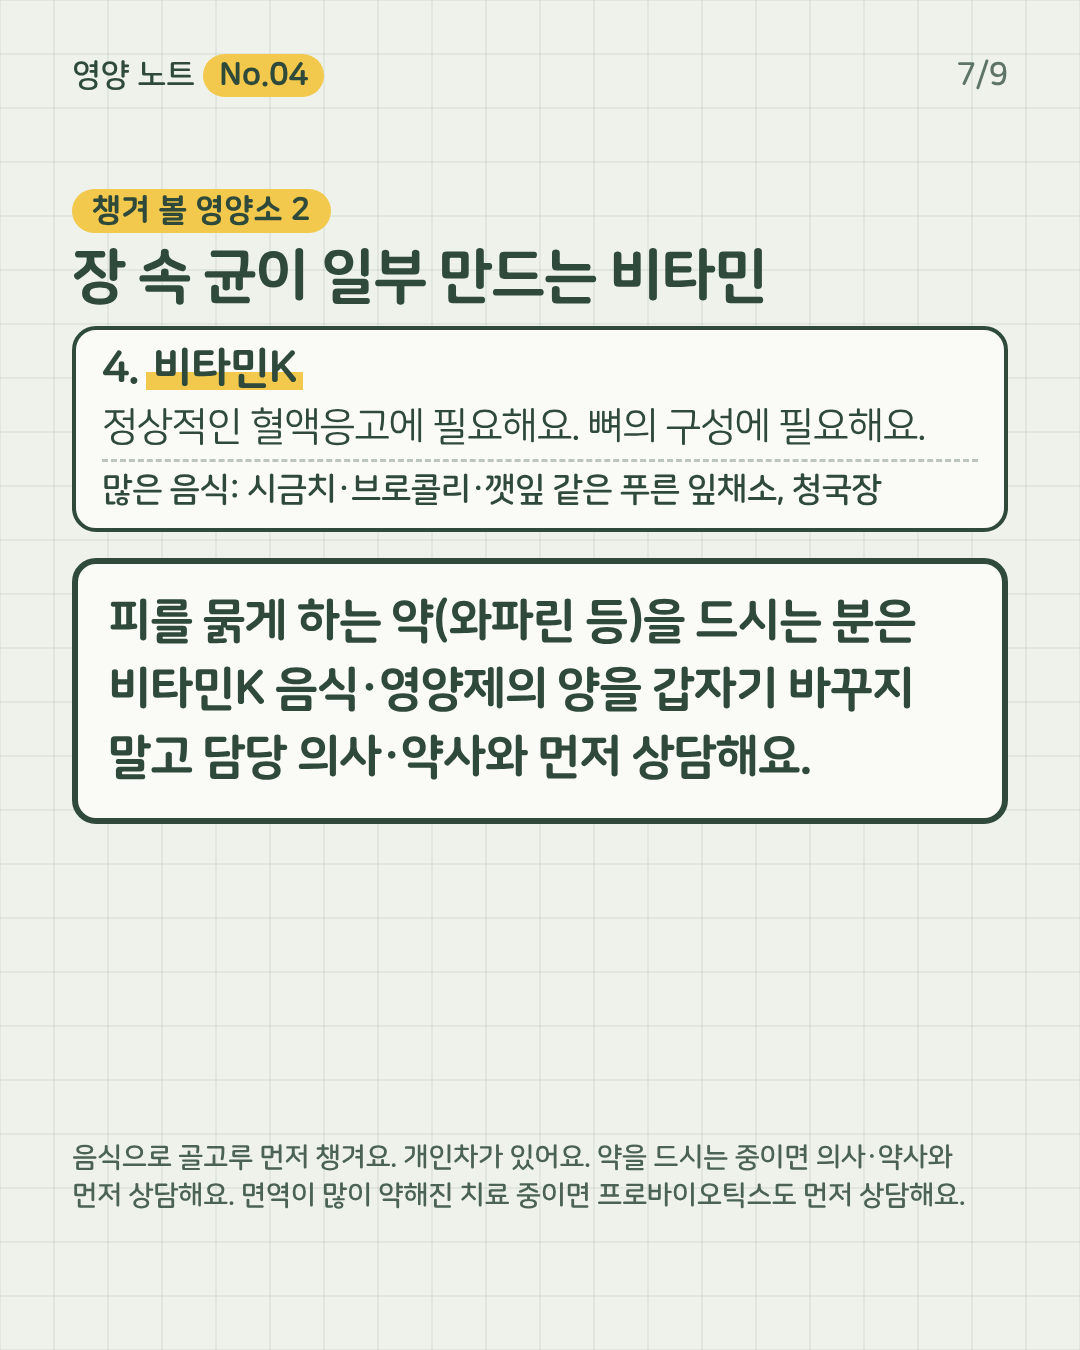
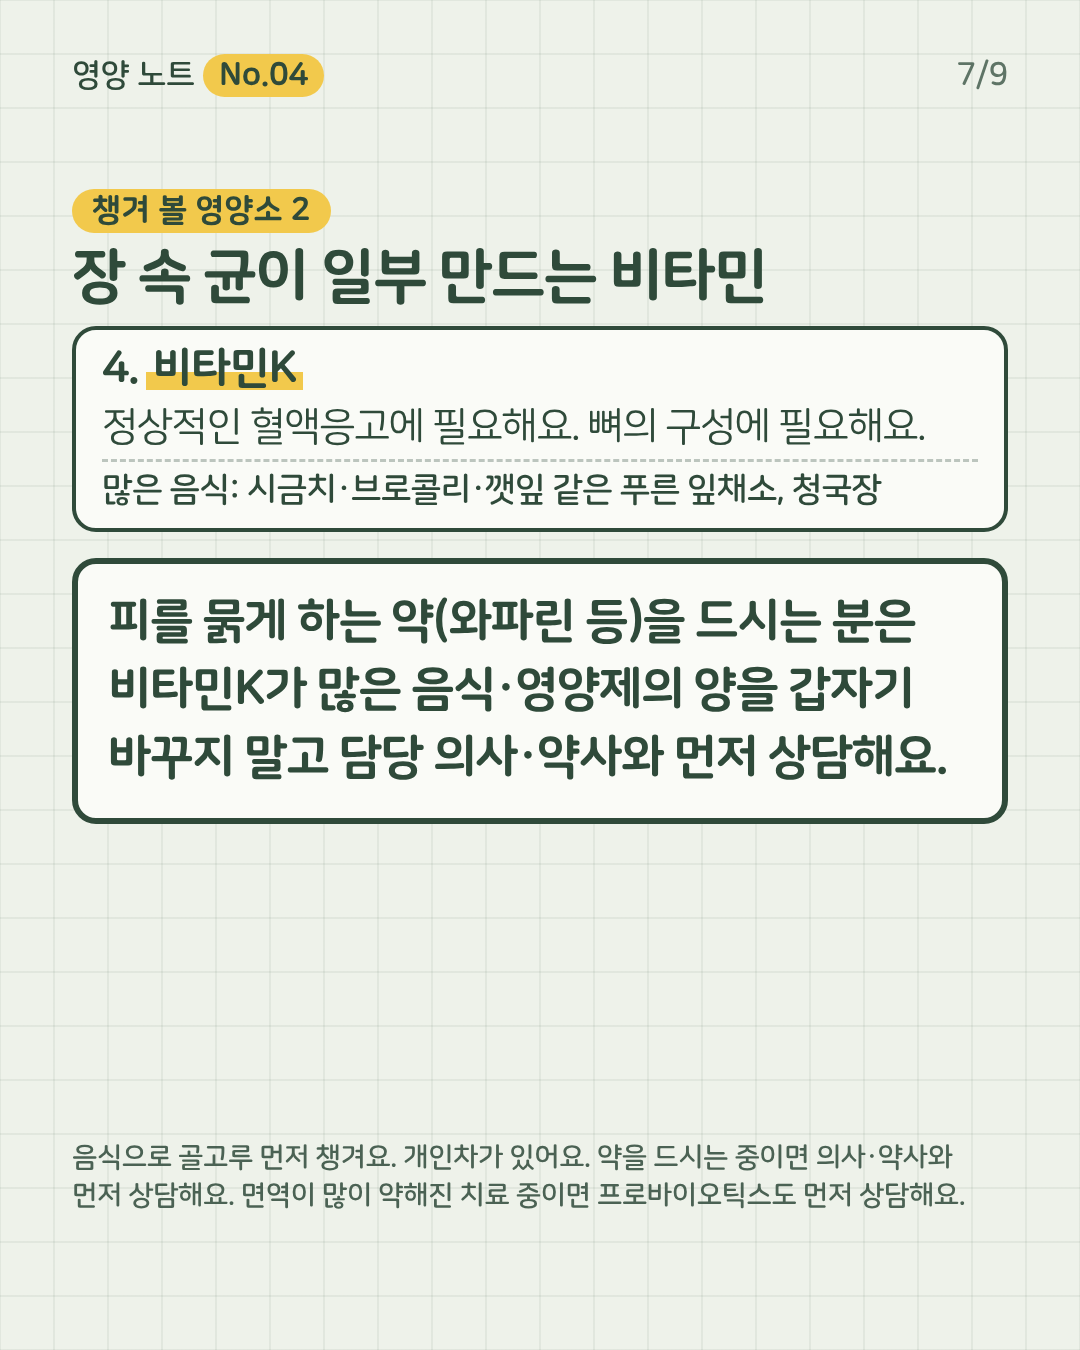
영양노트 No.04 검수 통과 + 작은 글 2곳 고침(못 쪼갠 걸, 비타민K가 많은 음식)
Claude-Session: https://claude.ai/code/session_01Ethqw5r7mmktrKzGmpSNVy

Changed region(s): [[0.0917, 0.4978, 0.8861, 0.5911]]

diff --git a/company/초안/영양노트/No04-카드/cards.html b/company/초안/영양노트/No04-카드/cards.html
@@ -189,7 +189,7 @@ svg .lb{fill:var(--ink);font-family:"NSR";font-weight:800}
   <div class="head"><div>영양 노트<span class="no">No.04</span></div><div class="page">2/9</div></div>
   <div class="body">
     <p class="sub"><span class="num">1.</span> 장 속은 균의 마을</p>
-    <p class="txt">장 속에는 셀 수 없이 많은<br>균이 함께 살아요.<br>대부분 <span class="hl">큰창자</span>에 모여<br>우리가 못 먹은 걸 나눠 먹어요.</p>
+    <p class="txt">장 속에는 셀 수 없이 많은<br>균이 함께 살아요.<br>대부분 <span class="hl">큰창자</span>에 모여<br>우리가 못 쪼갠 걸 나눠 먹어요.</p>
     <div class="ill">
       <svg width="900" height="500" viewBox="0 0 900 500">
         <!-- 길 지도 (No.01) -->
@@ -390,7 +390,7 @@ svg .lb{fill:var(--ink);font-family:"NSR";font-weight:800}
       <p class="fd">많은 음식: 시금치·브로콜리·깻잎 같은 푸른 잎채소, 청국장</p>
     </div>
 
-    <div class="warn">피를 묽게 하는 약(와파린 등)을 드시는 분은 비타민K 음식·영양제의 양을 갑자기 바꾸지 말고 담당 의사·약사와 먼저 상담해요.</div>
+    <div class="warn">피를 묽게 하는 약(와파린 등)을 드시는 분은 비타민K가 많은 음식·영양제의 양을 갑자기 바꾸지 말고 담당 의사·약사와 먼저 상담해요.</div>
 
     <p class="note">음식으로 골고루 먼저 챙겨요. 개인차가 있어요. 약을 드시는 중이면 의사·약사와 먼저 상담해요. 면역이 많이 약해진 치료 중이면 프로바이오틱스도 먼저 상담해요.</p>
   </div>

diff --git a/company/초안/영양노트/No04-원고.md b/company/초안/영양노트/No04-원고.md
@@ -43,7 +43,7 @@
 장 속에는 셀 수 없이 많은
 균이 함께 살아요.
 대부분 큰창자에 모여
-우리가 못 먹은 걸 나눠 먹어요.
+우리가 못 쪼갠 걸 나눠 먹어요.
 
 - 형광펜: "큰창자"
 - [그림: No.01 길 지도(입·위·작은창자·큰창자) 중 '큰창자' 칸을 크게 확대, 안에 작은 동그라미 균 여러 개가 작은 집 모양 사이에 모여 있음]
@@ -123,7 +123,7 @@
 
 (네모 상자, 크게, 진초록 테두리)
 피를 묽게 하는 약(와파린 등)을 드시는 분은
-비타민K 음식·영양제의 양을 갑자기 바꾸지 말고
+비타민K가 많은 음식·영양제의 양을 갑자기 바꾸지 말고
 담당 의사·약사와 먼저 상담해요.
 
 (아래 작게) 음식으로 골고루 먼저 챙겨요. 개인차가 있어요. 약을 드시는 중이면 의사·약사와 먼저 상담해요. 면역이 많이 약해진 치료 중이면 프로바이오틱스도 먼저 상담해요.
@@ -176,7 +176,7 @@ No.05 같은 밥, 다른 장 — 장 속 균은 지문처럼 달라요
 
 챙겨 볼 영양소: 프로바이오틱스 · 프락토올리고당 · 식이섬유 · 비타민K
 음식으로 먼저 챙겨 보세요.
-피를 묽게 하는 약(와파린 등)을 드시는 분은 비타민K 음식·영양제의 양을 갑자기 바꾸지 말고 담당 의사·약사와 먼저 상담해요.
+피를 묽게 하는 약(와파린 등)을 드시는 분은 비타민K가 많은 음식·영양제의 양을 갑자기 바꾸지 말고 담당 의사·약사와 먼저 상담해요.
 
 오늘 해 볼 것: 밥상에 나물 한 가지와 김치·된장 같은 발효 음식 하나.
 
